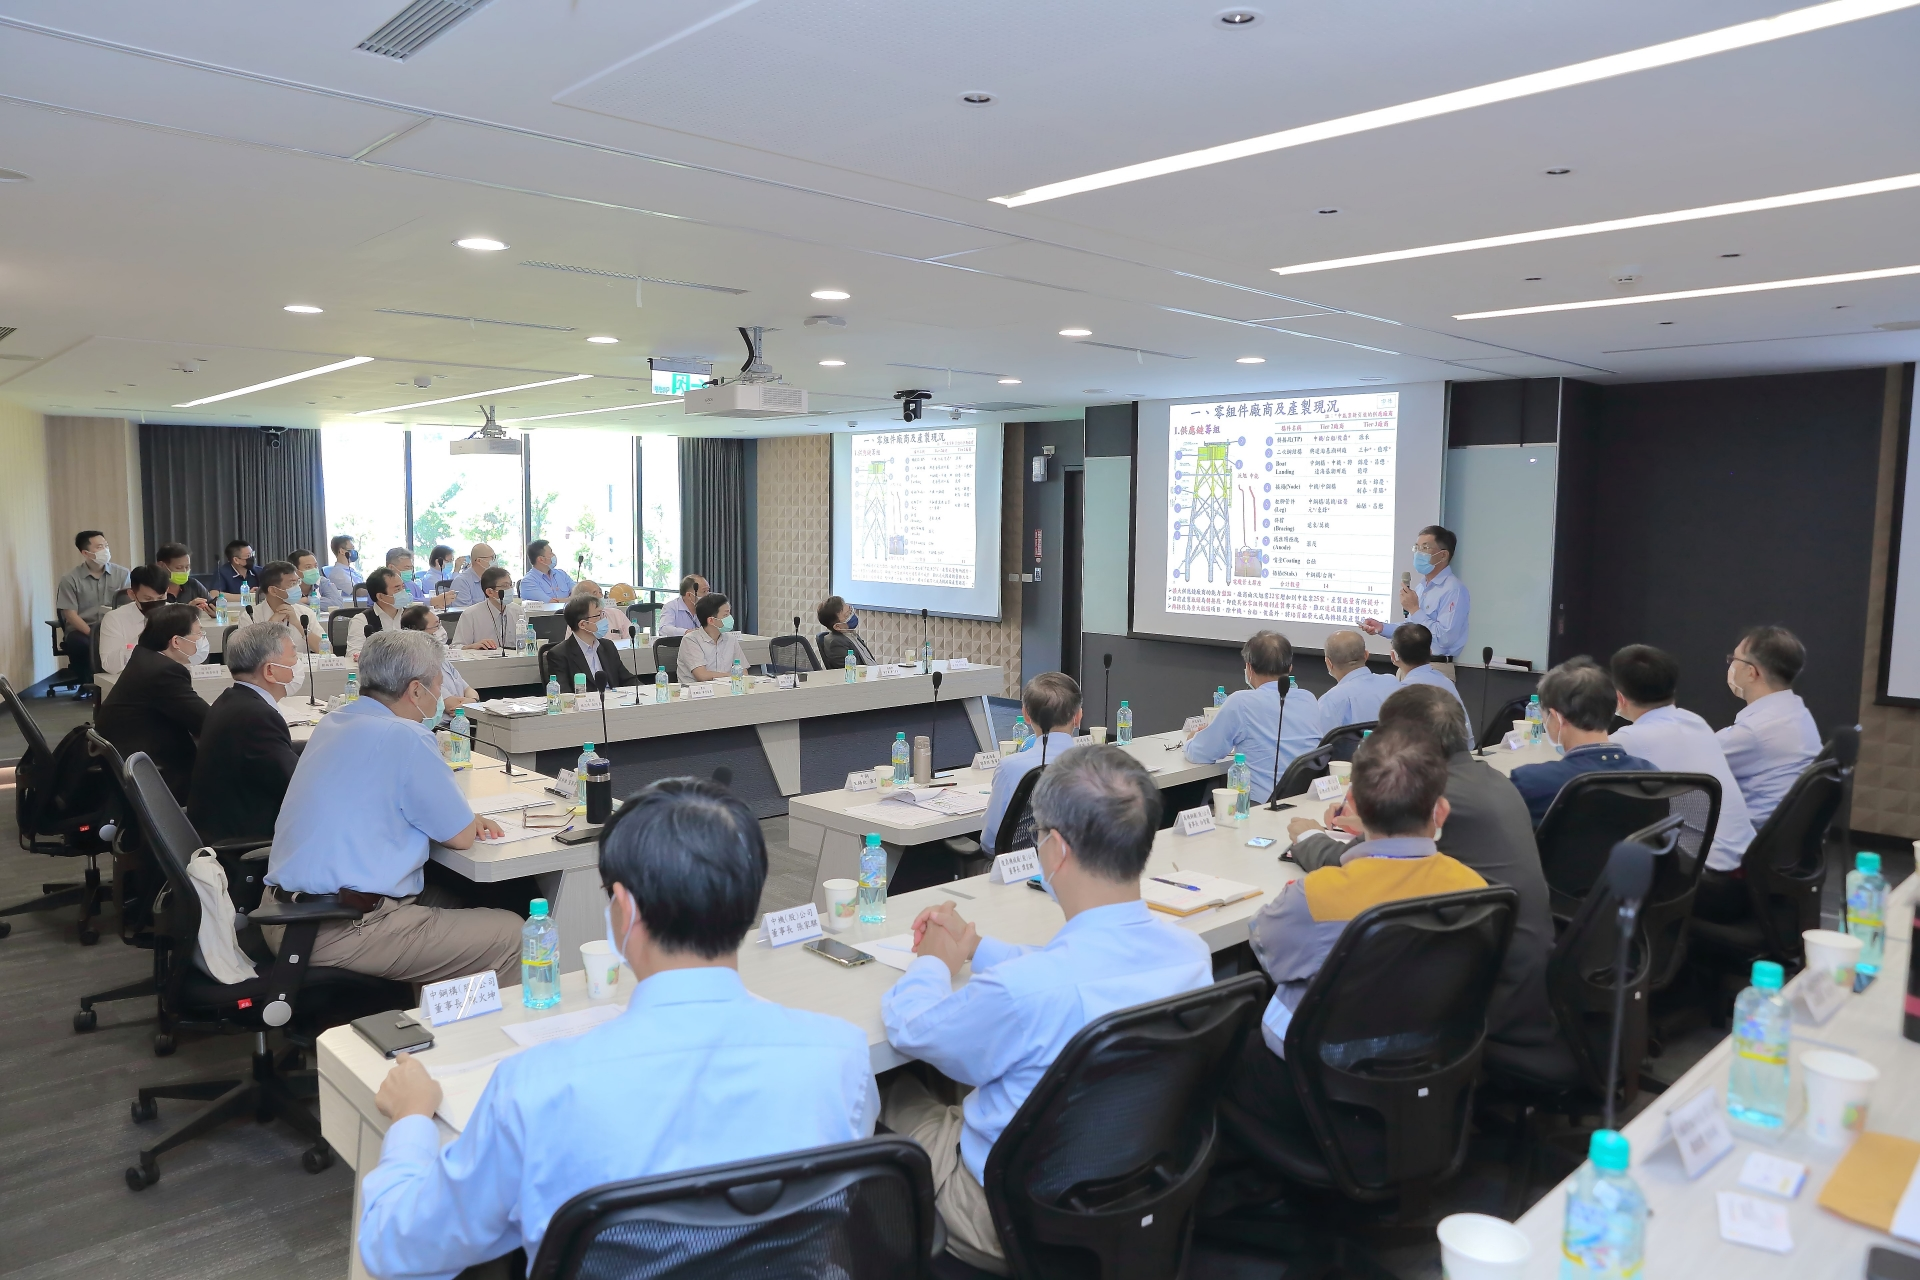
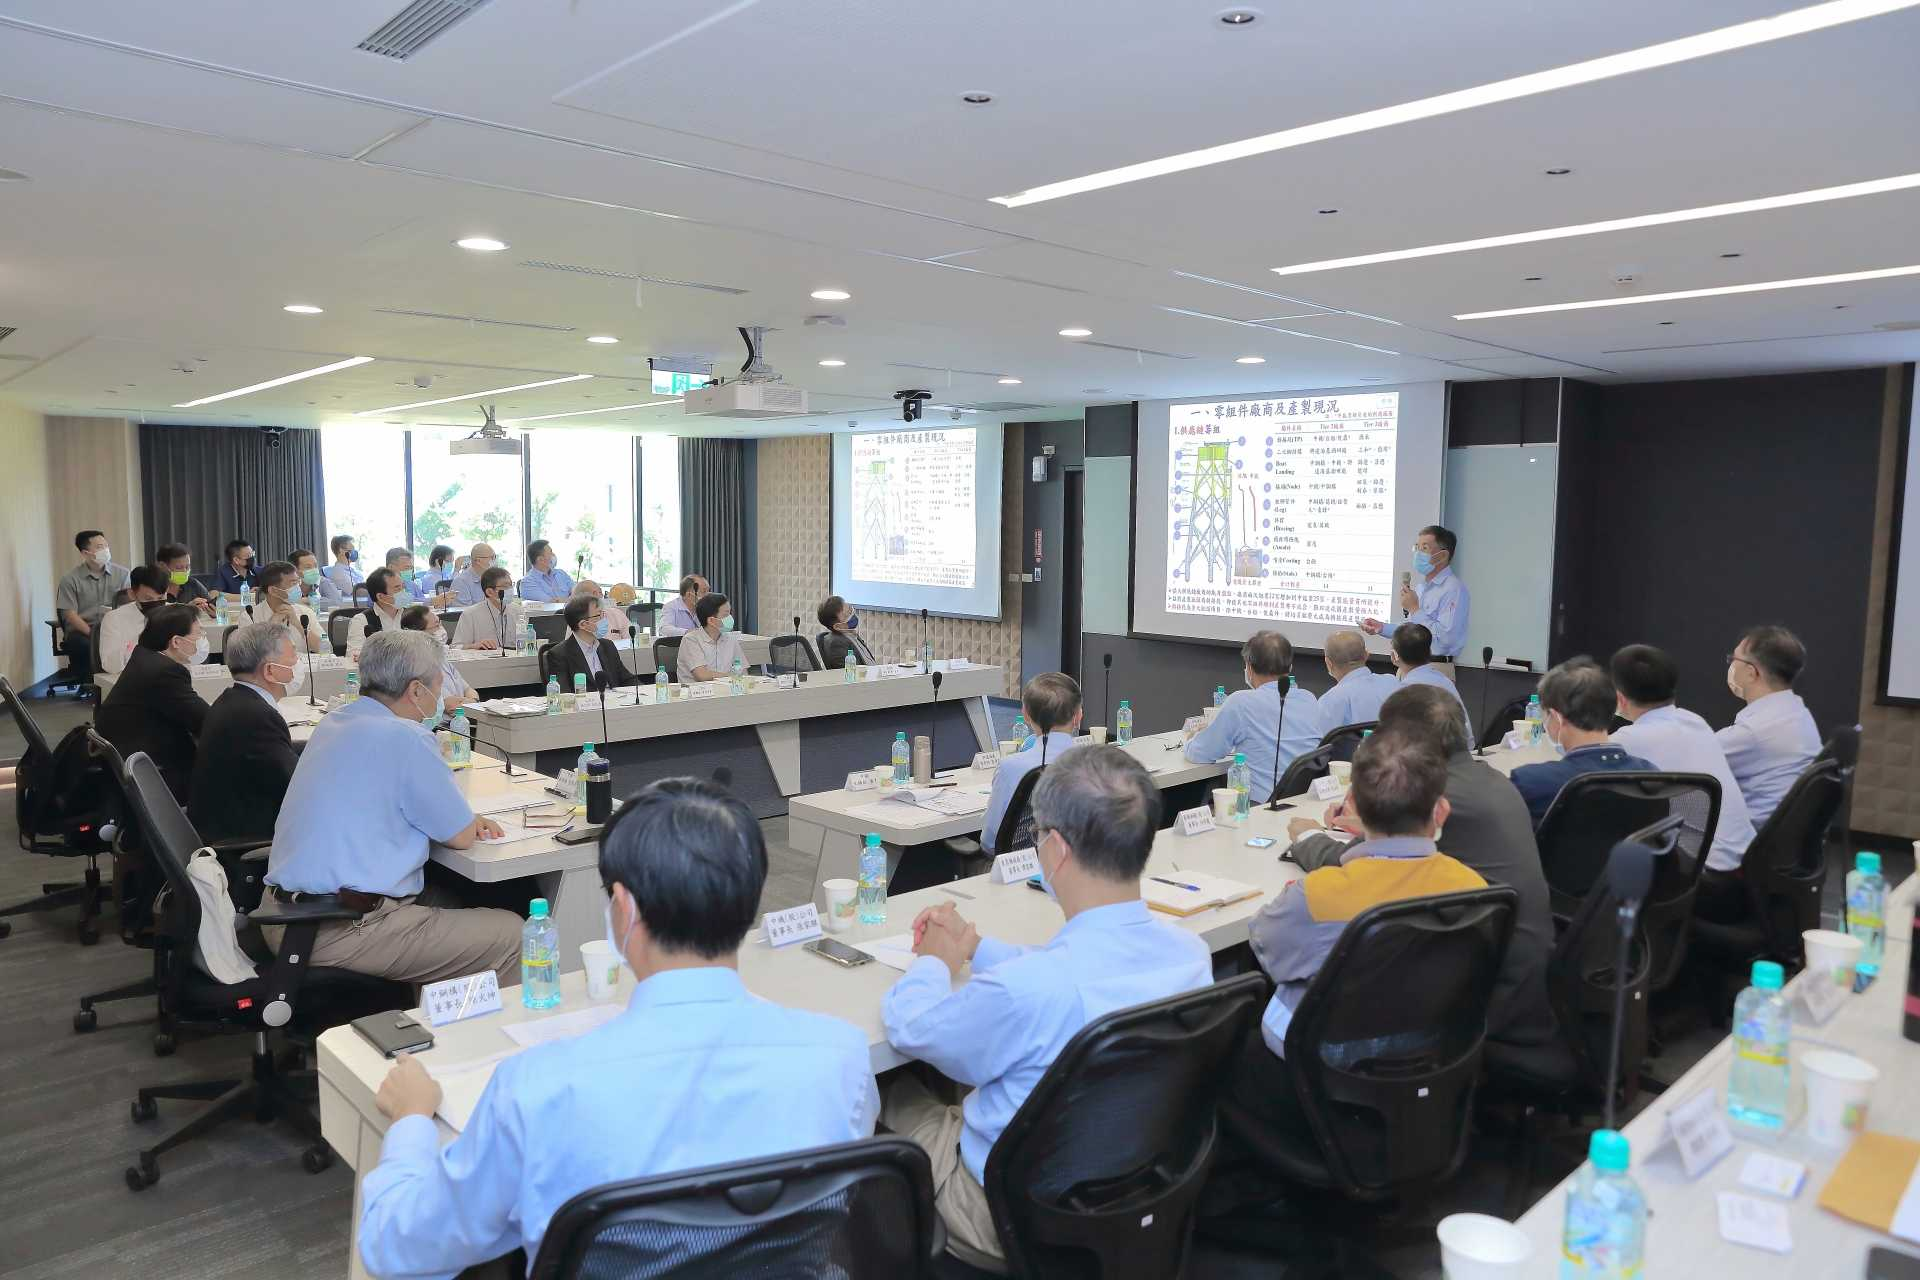
圖片減肥

Changed region(s): [[0.3438, 0.2812, 0.375, 0.3125]]

diff --git a/sdms/csr.html b/sdms/csr.html
@@ -168,7 +168,7 @@
 										<li class="grid-sizer"></li><!-- for Masonry column width -->
 										<li>
 											<figure>
-												<img src="images/CSR/csr-1.png" alt="天清府遊江元帥聖誕祝壽" />
+												<img src="images/CSR/csr-1.jpg" alt="天清府遊江元帥聖誕祝壽" />
 												<figcaption>
 													<h3>天清府遊江元帥聖誕祝壽</h3>
 												</figcaption>
@@ -176,7 +176,7 @@
 										</li>
 										<li>
 											<figure>
-												<img src="images/CSR/csr-2.png" alt="興達港區淨灘活動" />
+												<img src="images/CSR/csr-2.jpg" alt="興達港區淨灘活動" />
 												<figcaption>
 													<h3>興達港區淨灘活動</h3>
 												</figcaption>
@@ -184,7 +184,7 @@
 										</li>
 										<li>
 											<figure>
-												<img src="images/CSR/csr-3.png" alt="採購庇護工場健康便當" />
+												<img src="images/CSR/csr-3.jpg" alt="採購庇護工場健康便當" />
 												<figcaption>
 													<h3>採購庇護工場健康便當</h3>
 												</figcaption>
@@ -192,7 +192,7 @@
 										</li>
 										<li>
 											<figure>
-												<img src="images/CSR/csr-4.png" alt="興達海基捐血活動(1)" />
+												<img src="images/CSR/csr-4.jpg" alt="興達海基捐血活動(1)" />
 												<figcaption>
 													<h3>興達海基捐血活動(1)</h3>
 												</figcaption>
@@ -200,7 +200,7 @@
 										</li>
 										<li>
 											<figure>
-												<img src="images/CSR/csr-5.png" alt="興達海基捐血活動(2)" />
+												<img src="images/CSR/csr-5.jpg" alt="興達海基捐血活動(2)" />
 												<figcaption>
 													<h3>興達海基捐血活動(2)</h3>
 												</figcaption>
@@ -208,7 +208,7 @@
 										</li>
 										<li>
 											<figure>
-												<img src="images/CSR/csr-6.png" alt="興達海基中元普渡活動" />
+												<img src="images/CSR/csr-6.jpg" alt="興達海基中元普渡活動" />
 												<figcaption>
 													<h3>興達海基中元普渡活動</h3>
 												</figcaption>
